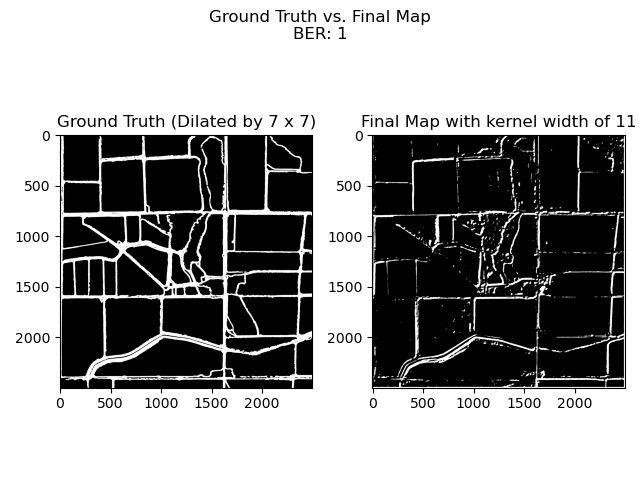
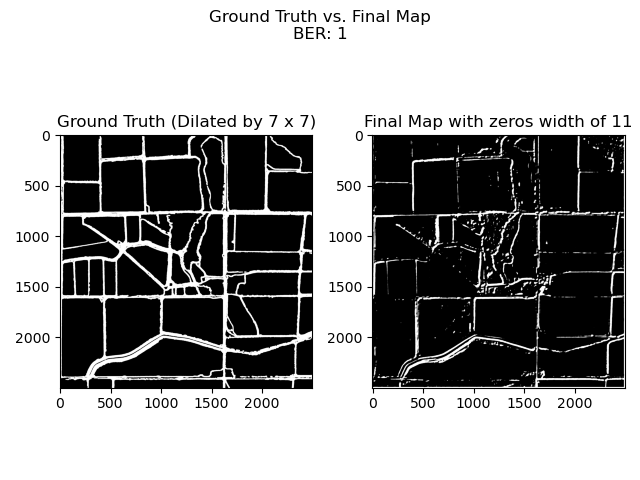
FIxed a typo in plt title

Changed region(s): [[0.5625, 0.2188, 1.0, 0.2812]]

diff --git a/kernel_test.py b/kernel_test.py
@@ -97,7 +97,7 @@ def objfunction(w):
     ax[0].imshow(ground_truth,'Greys_r')
     ax[0].set_title(f"Ground Truth (Dilated by {i} x {i})")
     ax[1].imshow(final_map,'Greys_r')
-    ax[1].set_title(f"Final Map with kernel width of {w}")
+    ax[1].set_title(f"Final Map with zeros width of {w}")
     fig.suptitle(f"Ground Truth vs. Final Map\nBER: {BER}")
     fig.tight_layout()
     fig.subplots_adjust(top=0.88)
@@ -105,6 +105,8 @@ def objfunction(w):
     plt.pause(1.5)
 
     plt.savefig(f'comparisons/{w}_{w}')
+
+    plt.close()
 
     end_millis = int(round(time.time() * 1000))
     print('Ended: ' + str(datetime.now()) + ' (' + str(end_millis) + ')')
